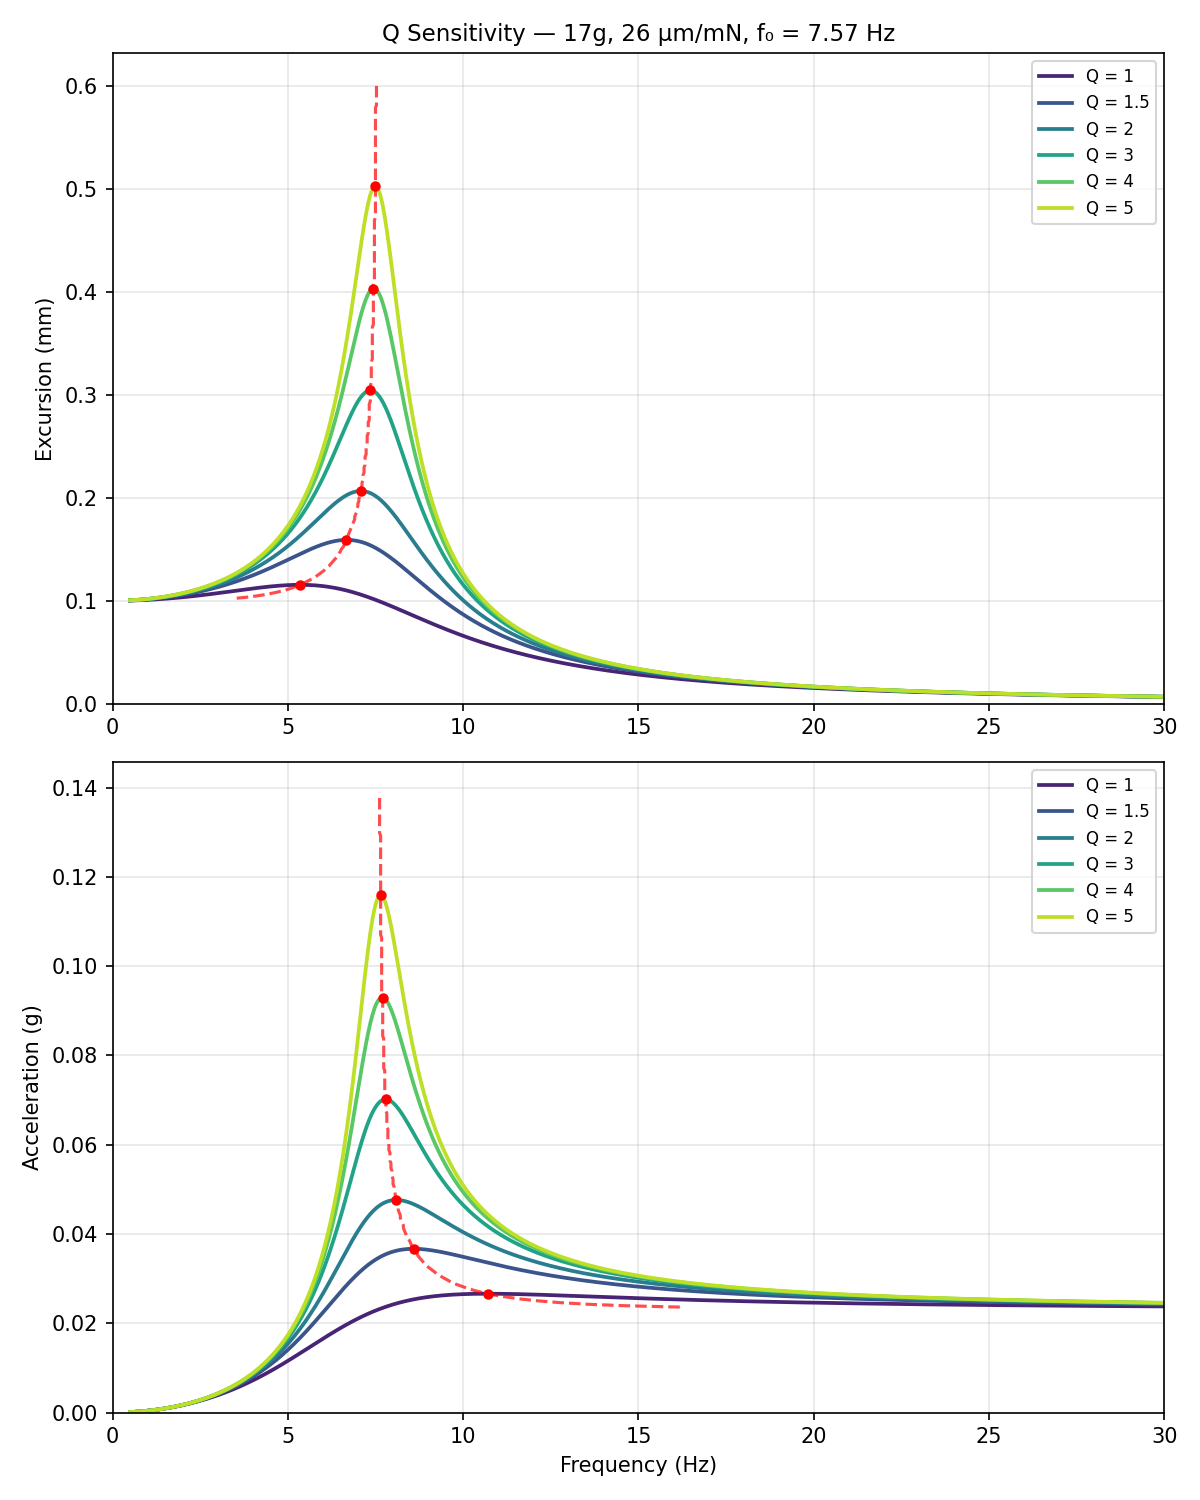
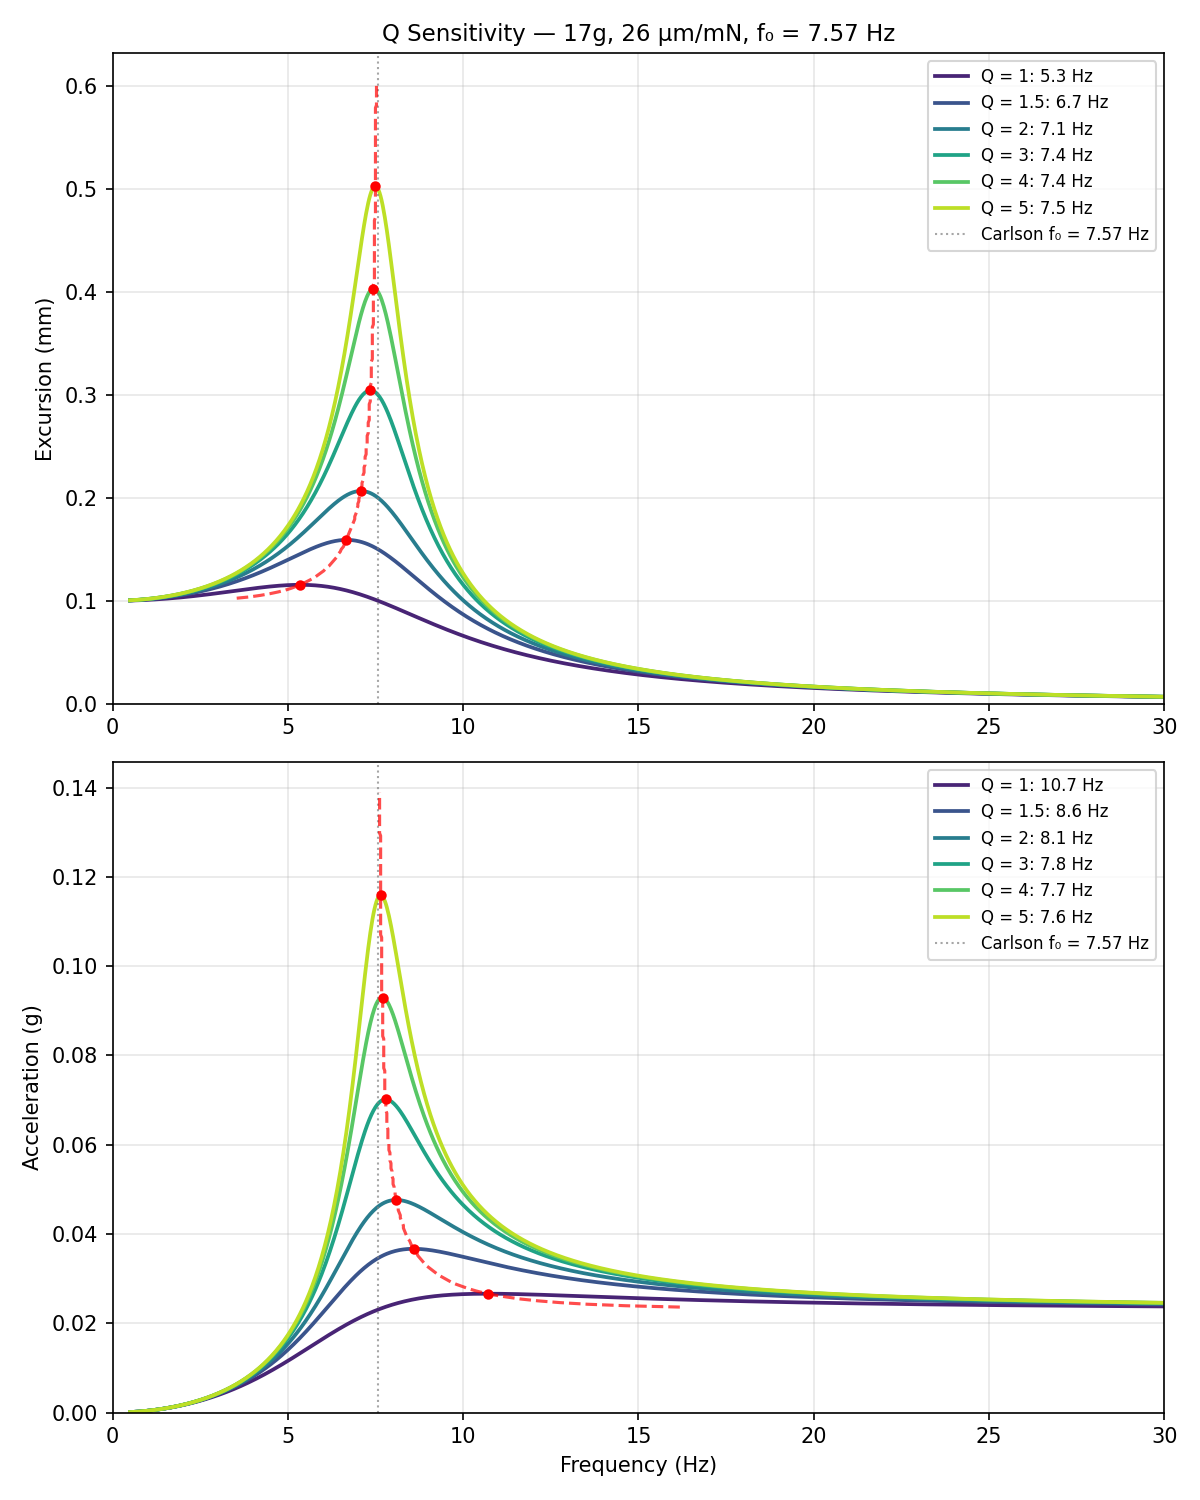
Add Carlson f0

Changed region(s): [[0.7708, 0.0307, 0.9558, 0.184], [0.7708, 0.5213, 0.9558, 0.644]]

diff --git a/korf_compliance_calc/plot_q_sensitivity.py b/korf_compliance_calc/plot_q_sensitivity.py
@@ -67,8 +67,15 @@ def plot_q_sensitivity(mass, compliance, output_path=None):
         acc_dots_f.append(freqs[ai])
         acc_dots_v.append(acc[ai])
 
-        ax1.plot(freqs, exc, color=color, linewidth=1.8, label=f'Q = {Q:g}')
-        ax2.plot(freqs, acc, color=color, linewidth=1.8, label=f'Q = {Q:g}')
+        ax1.plot(freqs, exc, color=color, linewidth=1.8,
+                label=f'Q = {Q:g}: {freqs[ei]:.1f} Hz')
+        ax2.plot(freqs, acc, color=color, linewidth=1.8,
+                label=f'Q = {Q:g}: {freqs[ai]:.1f} Hz')
+
+    # Carlson f₀ line
+    for ax in (ax1, ax2):
+        ax.axvline(x=f0, color='gray', linestyle=':', linewidth=1, alpha=0.7,
+                   label=f'Carlson f₀ = {f0:.2f} Hz')
 
     # Smooth peak trace
     ax1.plot(exc_pf, exc_pv, 'r--', linewidth=1.5, alpha=0.7, zorder=10)
